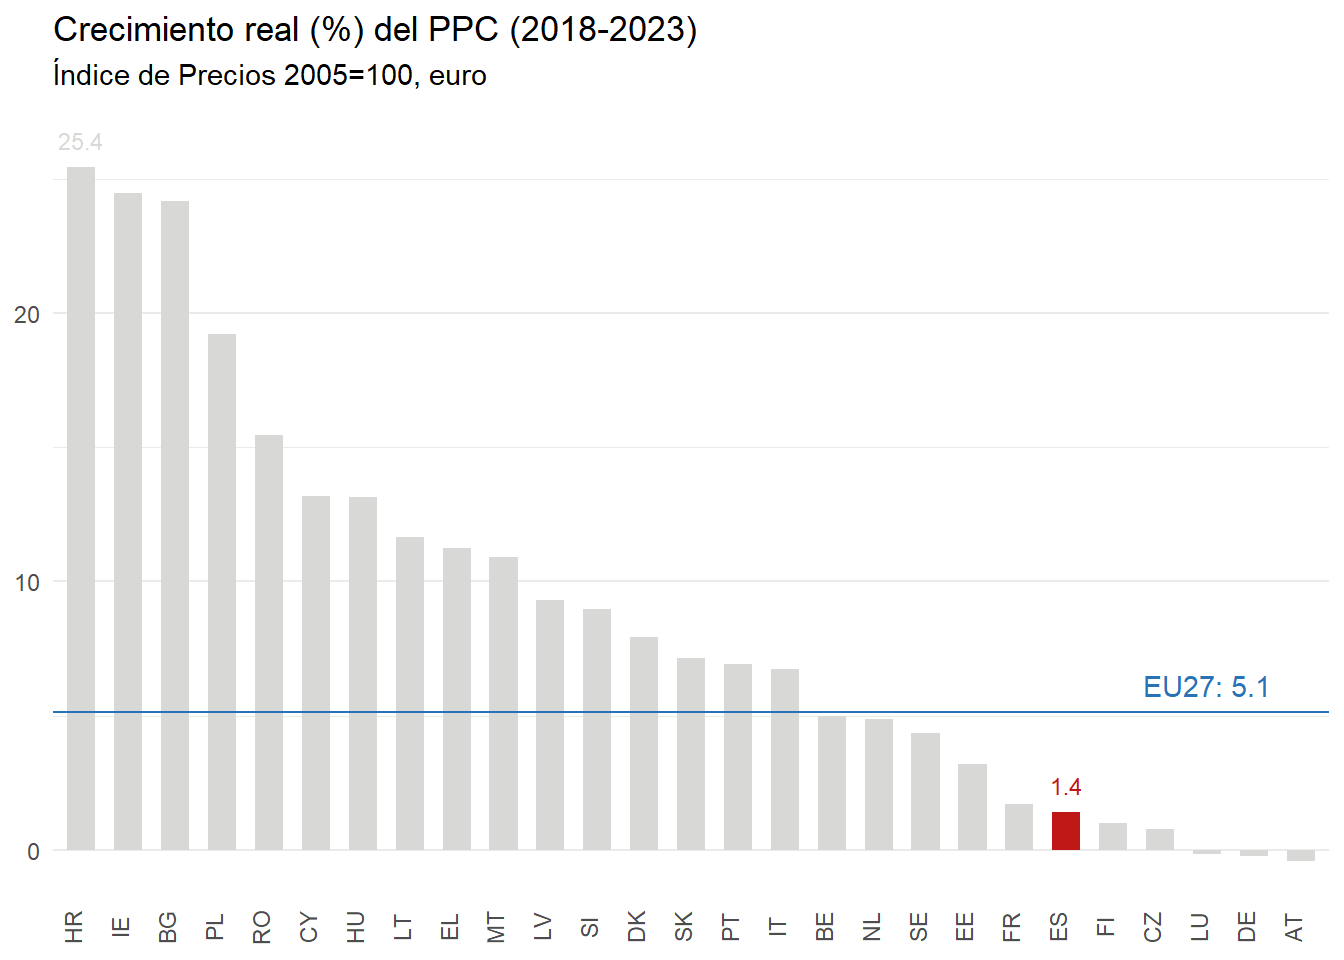
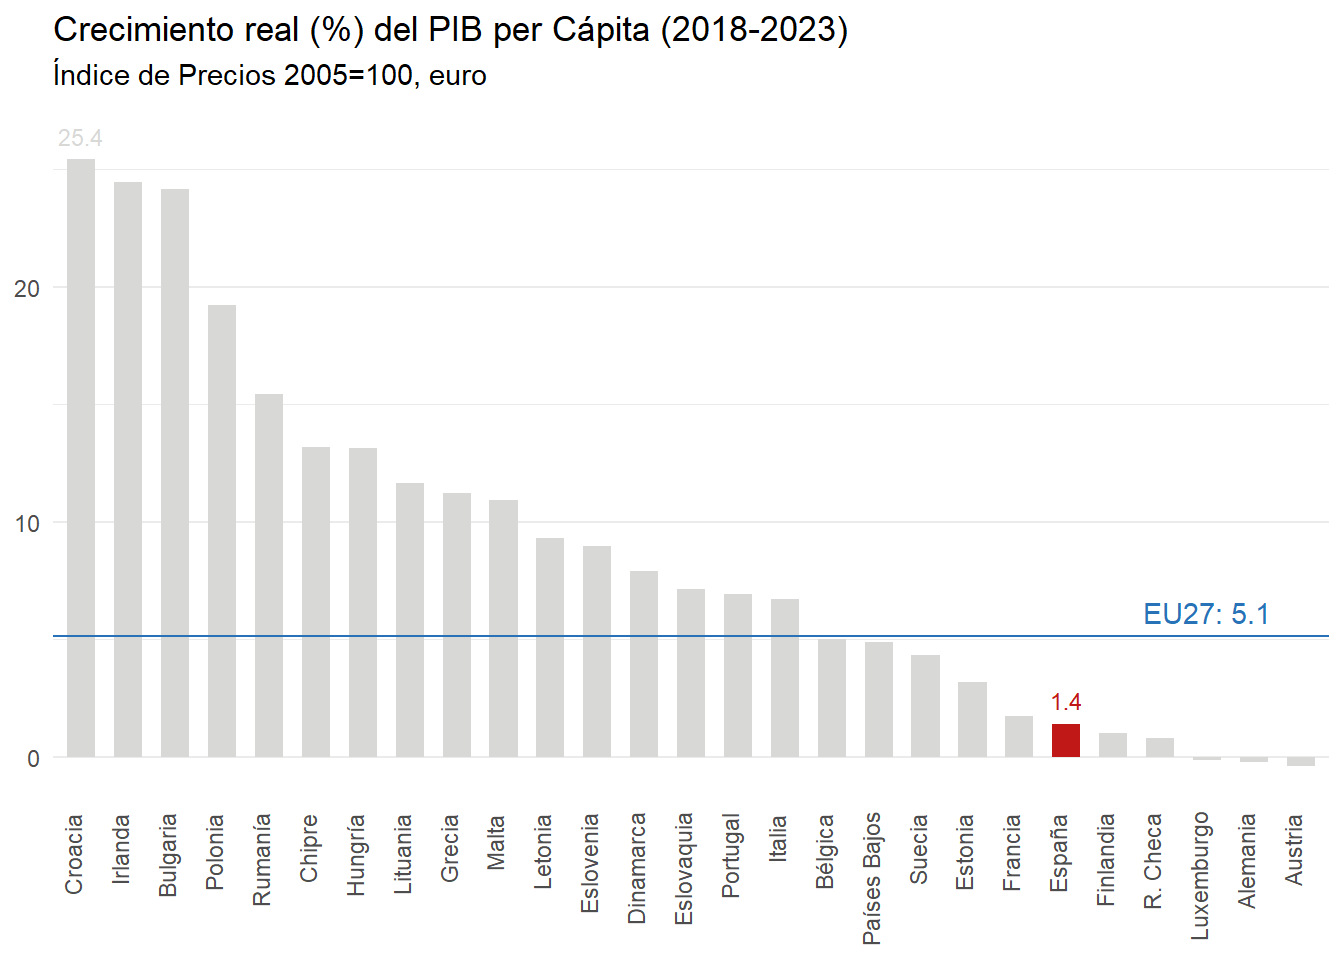
Construcción del Indicador

diff --git a/Trabajo.html b/Trabajo.html
@@ -2,7 +2,7 @@
 <html xmlns="http://www.w3.org/1999/xhtml" lang="en" xml:lang="en"><head>
 
 <meta charset="utf-8">
-<meta name="generator" content="quarto-1.3.450">
+<meta name="generator" content="quarto-1.3.353">
 
 <meta name="viewport" content="width=device-width, initial-scale=1.0, user-scalable=yes">
 
@@ -47,6 +47,8 @@ ul.task-list li input[type="checkbox"] {
 <script src="Trabajo_files/libs/kePrint-0.0.1/kePrint.js"></script>
 <link href="Trabajo_files/libs/lightable-0.0.1/lightable.css" rel="stylesheet">
 
+  <script src="https://polyfill.io/v3/polyfill.min.js?features=es6"></script>
+  <script src="https://cdn.jsdelivr.net/npm/mathjax@3/es5/tex-chtml-full.js" type="text/javascript"></script>
 
 </head>
 
@@ -62,11 +64,15 @@ ul.task-list li input[type="checkbox"] {
   <li><a href="#planteamiento-del-problema" id="toc-planteamiento-del-problema" class="nav-link" data-scroll-target="#planteamiento-del-problema">Planteamiento del problema</a></li>
   <li><a href="#descriptivo" id="toc-descriptivo" class="nav-link" data-scroll-target="#descriptivo">Descriptivo</a>
   <ul class="collapse">
+  <li><a href="#variables" id="toc-variables" class="nav-link" data-scroll-target="#variables">Variables</a>
+  <ul class="collapse">
   <li><a href="#pib-per-capita" id="toc-pib-per-capita" class="nav-link" data-scroll-target="#pib-per-capita">PIB per Capita</a></li>
   <li><a href="#tasa-de-paro" id="toc-tasa-de-paro" class="nav-link" data-scroll-target="#tasa-de-paro">Tasa de Paro</a></li>
   <li><a href="#presión-fiscal" id="toc-presión-fiscal" class="nav-link" data-scroll-target="#presión-fiscal">Presión Fiscal</a></li>
-  <li><a href="#evolución-del-poder-adquisitivo-de-las-familias-ppa" id="toc-evolución-del-poder-adquisitivo-de-las-familias-ppa" class="nav-link" data-scroll-target="#evolución-del-poder-adquisitivo-de-las-familias-ppa">Evolución del poder adquisitivo de las familias (PPA)</a></li>
+  <li><a href="#poder-adquisitivo-de-las-familias" id="toc-poder-adquisitivo-de-las-familias" class="nav-link" data-scroll-target="#poder-adquisitivo-de-las-familias">Poder adquisitivo de las familias</a></li>
   <li><a href="#deuda-pública" id="toc-deuda-pública" class="nav-link" data-scroll-target="#deuda-pública">Deuda pública</a></li>
+  </ul></li>
+  <li><a href="#construcción-del-indicador" id="toc-construcción-del-indicador" class="nav-link" data-scroll-target="#construcción-del-indicador">Construcción del Indicador</a></li>
   </ul></li>
   <li><a href="#resultados" id="toc-resultados" class="nav-link" data-scroll-target="#resultados">Resultados</a></li>
   <li><a href="#conclusiones" id="toc-conclusiones" class="nav-link" data-scroll-target="#conclusiones">Conclusiones</a></li>
@@ -155,8 +161,10 @@ ul.task-list li input[type="checkbox"] {
 </tbody>
 </table>
 <p>No todas las variables serán igual de relevantes a la hora de calcular el indicador. Esto se debe a que en la variable Tasa de Paro se desconoce el número de fijos discontinuos en España, lo que puede llevar a una distorsión en la evolución de la tasa de desempleo entre 2018 y 2023.</p>
-<section id="pib-per-capita" class="level2">
-<h2 class="anchored" data-anchor-id="pib-per-capita">PIB per Capita</h2>
+<section id="variables" class="level2">
+<h2 class="anchored" data-anchor-id="variables">Variables</h2>
+<section id="pib-per-capita" class="level3">
+<h3 class="anchored" data-anchor-id="pib-per-capita">PIB per Capita</h3>
 <div class="cell">
 <div class="cell-output-display">
 <p><img src="Trabajo_files/figure-html/unnamed-chunk-14-1.png" class="img-fluid" width="672"></p>
@@ -168,32 +176,32 @@ ul.task-list li input[type="checkbox"] {
 </div>
 </div>
 </section>
-<section id="tasa-de-paro" class="level2">
-<h2 class="anchored" data-anchor-id="tasa-de-paro">Tasa de Paro</h2>
+<section id="tasa-de-paro" class="level3">
+<h3 class="anchored" data-anchor-id="tasa-de-paro">Tasa de Paro</h3>
 <div class="cell">
 <div class="cell-output-display">
 <p><img src="Trabajo_files/figure-html/unnamed-chunk-19-1.png" class="img-fluid" width="672"></p>
 </div>
 </div>
 </section>
-<section id="presión-fiscal" class="level2">
-<h2 class="anchored" data-anchor-id="presión-fiscal">Presión Fiscal</h2>
+<section id="presión-fiscal" class="level3">
+<h3 class="anchored" data-anchor-id="presión-fiscal">Presión Fiscal</h3>
 <div class="cell">
 <div class="cell-output-display">
 <p><img src="Trabajo_files/figure-html/unnamed-chunk-23-1.png" class="img-fluid" width="672"></p>
 </div>
 </div>
 </section>
-<section id="evolución-del-poder-adquisitivo-de-las-familias-ppa" class="level2">
-<h2 class="anchored" data-anchor-id="evolución-del-poder-adquisitivo-de-las-familias-ppa">Evolución del poder adquisitivo de las familias (PPA)</h2>
+<section id="poder-adquisitivo-de-las-familias" class="level3">
+<h3 class="anchored" data-anchor-id="poder-adquisitivo-de-las-familias">Poder adquisitivo de las familias</h3>
 <div class="cell">
 <div class="cell-output-display">
 <p><img src="Trabajo_files/figure-html/unnamed-chunk-27-1.png" class="img-fluid" width="672"></p>
 </div>
 </div>
 </section>
-<section id="deuda-pública" class="level2">
-<h2 class="anchored" data-anchor-id="deuda-pública">Deuda pública</h2>
+<section id="deuda-pública" class="level3">
+<h3 class="anchored" data-anchor-id="deuda-pública">Deuda pública</h3>
 <div class="cell">
 <div class="cell-output-display">
 <p><img src="Trabajo_files/figure-html/unnamed-chunk-31-1.png" class="img-fluid" width="672"></p>
@@ -201,18 +209,87 @@ ul.task-list li input[type="checkbox"] {
 </div>
 </section>
 </section>
+<section id="construcción-del-indicador" class="level2">
+<h2 class="anchored" data-anchor-id="construcción-del-indicador">Construcción del Indicador</h2>
+<p>Como se ha mencionado inicialmente, no todas las variables tienen el mismo peso en la elaboración del indicador.</p>
+<table class="table">
+<thead>
+<tr class="header">
+<th>Variables</th>
+<th>Peso</th>
+</tr>
+</thead>
+<tbody>
+<tr class="odd">
+<td>Ev. PIB per Capita</td>
+<td>0.2125</td>
+</tr>
+<tr class="even">
+<td>Ev. Tasa de Paro</td>
+<td>0.15</td>
+</tr>
+<tr class="odd">
+<td>Ev. Presión Fiscal sobre el PIB</td>
+<td>0.2125</td>
+</tr>
+<tr class="even">
+<td>Ev. Poder Aquisitivo de las Familias</td>
+<td>0.2125</td>
+</tr>
+<tr class="odd">
+<td>Ev. Deuda Pública sobre el PIB</td>
+<td>0.2125</td>
+</tr>
+</tbody>
+</table>
+<p>Por otra parte, se calcula el caso ideal y el antiideal de desarrollo económico en base a los resultados obtenidos previamente. El ideal está conformado por:</p>
+<ul>
+<li><p>Máxima evolución PIB per Capita.</p></li>
+<li><p>Mayor descenso de la Tasa de Paro.</p></li>
+<li><p>Mayor reducción de la Presión Fiscal sobre el PIB.</p></li>
+<li><p>Mayor evolución del Poder Adquisitivo.</p></li>
+<li><p>Mayor disminución de la Deuda Pública sobre el PIB.</p></li>
+</ul>
+<p>Y el antiideal por:</p>
+<ul>
+<li><p>Menor evolución PIB per Capita.</p></li>
+<li><p>Mayor ascenso de la Tasa de Paro.</p></li>
+<li><p>Mayor incremento de la Presión Fiscal sobre el PIB.</p></li>
+<li><p>Mayor pérdida de Poder Adquisitivo.</p></li>
+<li><p>Mayor aumento de la Deuda Pública sobre el PIB.</p></li>
+</ul>
+<div class="cell">
+<div class="cell-output-display">
+
+<div class="datatables html-widget html-fill-item" id="htmlwidget-e150b5ba47fcc33c6634" style="width:100%;height:auto;"></div>
+<script type="application/json" data-for="htmlwidget-e150b5ba47fcc33c6634">{"x":{"filter":"none","vertical":false,"data":[["Ideal","Antiideal"],[25.42,-0.4],[-44.29,19.88],[-6.06,10.27],[25.49,-8.050000000000001],[-29.41,125.61]],"container":"<table class=\"display\">\n  <thead>\n    <tr>\n      <th> <\/th>\n      <th>Evolución PIB per Capita<\/th>\n      <th>Evolución Tasa de Paro<\/th>\n      <th>Evolución Presión Fiscal<\/th>\n      <th>Evolución Poder Adquisitivo<\/th>\n      <th>Evolución Deuda Pública<\/th>\n    <\/tr>\n  <\/thead>\n<\/table>","options":{"columnDefs":[{"className":"dt-right","targets":[1,2,3,4,5]},{"orderable":false,"targets":0},{"name":" ","targets":0},{"name":"Evolución PIB per Capita","targets":1},{"name":"Evolución Tasa de Paro","targets":2},{"name":"Evolución Presión Fiscal","targets":3},{"name":"Evolución Poder Adquisitivo","targets":4},{"name":"Evolución Deuda Pública","targets":5}],"order":[],"autoWidth":false,"orderClasses":false}},"evals":[],"jsHooks":[]}</script>
+</div>
+</div>
+<p>Posteriormente, se calcula la distancia de cada país al ideal y al antiideal.</p>
+<p><span class="math display">\[
+D^{ideal}_i = \sqrt{\sum_{j=1}^{5}(ideal[j]-pais_i[j])^2}
+\]</span></p>
+<p><span class="math display">\[
+D^{antiideal}_i = \sqrt{\sum_{j=1}^{5}(antiideal[j]-pais_i[j])^2}
+\]</span></p>
+<p>Finalmente, se obtiene el indicador para cada país mediante la siguiente fórmula:</p>
+<p><span class="math display">\[
+I_i = \frac{D_i^{antiideal}}{D_i^{ideal}+D_i^{antiideal}}
+\]</span></p>
+</section>
+</section>
 <section id="resultados" class="level1">
 <h1>Resultados</h1>
 <div class="cell">
 <div class="cell-output-display">
 
-<div class="datatables html-widget html-fill-item" id="htmlwidget-7700bbd973125028980f" style="width:100%;height:auto;"></div>
-<script type="application/json" data-for="htmlwidget-7700bbd973125028980f">{"x":{"filter":"none","vertical":false,"data":[["1","2","3","4","5","6","7","8","9","10","11","12","13","14","15","16","17","18","19","20","21","22","23","24","25","26","27"],["HRVATSKA","IRELAND","POLSKA","BULGARIA","MAGYARORSZÁG","DANMARK","ELLADA","SLOVENIJA","MALTA","NEDERLAND","LATVIJA","PORTUGAL","SVERIGE","BELGIQUE-BELGIË","ROMÂNIA","ITALIA","KYPROS","SLOVENSKO","FRANCE","LIETUVA","ÖSTERREICH","LUXEMBOURG","SUOMI / FINLAND","DEUTSCHLAND","ČESKÁ REPUBLIKA","ESPAÑA","EESTI"],[1,2,4,3,7,13,9,12,10,18,11,15,19,17,5,16,6,14,21,8,27,25,23,26,24,22,20],[9,8,5,2,24,21,1,3,10,6,13,15,26,16,22,4,7,14,12,23,20,18,19,17,25,11,27],[6,1,10,24,3,2,15,16,4,12,9,21,5,7,23,20,27,22,13,25,18,8,17,19,11,26,14],[3,5,4,1,7,17,14,9,13,15,12,8,22,18,2,16,10,11,24,6,25,27,23,26,19,21,20],[7,1,9,10,16,4,6,11,24,8,17,5,2,12,25,13,3,22,21,19,14,23,20,15,26,18,27],[146.4,145.3,131.1,124,114.2,112.1,111.9,109.6,109.1,107,106.5,105.2,105.2,104,99.90000000000001,97.40000000000001,93.90000000000001,93.7,92.90000000000001,92.3,88.8,88.5,87.59999999999999,84.7,82.7,78.90000000000001,49.2],[1,2,3,4,5,6,7,8,9,10,11,12,13,14,15,16,17,18,19,20,21,22,23,24,25,26,27]],"container":"<table class=\"display\">\n  <thead>\n    <tr>\n      <th> <\/th>\n      <th>Países UE-27<\/th>\n      <th>Evolución PIB<\/th>\n      <th>Evolución Empleo<\/th>\n      <th>Presión Fiscal<\/th>\n      <th>Poder adquisitivo<\/th>\n      <th>Deuda Pública<\/th>\n      <th>IDE\nUE=100<\/th>\n      <th>Ranking<\/th>\n    <\/tr>\n  <\/thead>\n<\/table>","options":{"columnDefs":[{"className":"dt-right","targets":[2,3,4,5,6,7,8]},{"orderable":false,"targets":0},{"name":" ","targets":0},{"name":"Países UE-27","targets":1},{"name":"Evolución PIB","targets":2},{"name":"Evolución Empleo","targets":3},{"name":"Presión Fiscal","targets":4},{"name":"Poder adquisitivo","targets":5},{"name":"Deuda Pública","targets":6},{"name":"IDE\nUE=100","targets":7},{"name":"Ranking","targets":8}],"order":[],"autoWidth":false,"orderClasses":false}},"evals":[],"jsHooks":[]}</script>
+<div class="datatables html-widget html-fill-item" id="htmlwidget-8c871eb70155cf678eb2" style="width:100%;height:auto;"></div>
+<script type="application/json" data-for="htmlwidget-8c871eb70155cf678eb2">{"x":{"filter":"none","vertical":false,"data":[["1","2","3","4","5","6","7","8","9","10","11","12","13","14","15","16","17","18","19","20","21","22","23","24","25","26","27"],["Croacia","Irlanda","Polonia","Bulgaria","Hungría","Dinamarca","Grecia","Eslovenia","Malta","Países Bajos","Letonia","Portugal","Suecia","Bélgica","Rumanía","Italia","Chipre","Eslovaquia","Francia","Lituania","Austria","Luxemburgo","Finlandia","Alemania","R. Checa","España","Estonia"],[1,2,4,3,7,13,9,12,10,18,11,15,19,17,5,16,6,14,21,8,27,25,23,26,24,22,20],[9,8,5,2,24,21,1,3,10,6,13,15,26,16,22,4,7,14,12,23,20,18,19,17,25,11,27],[6,1,10,24,3,2,15,16,4,12,9,21,5,7,23,20,27,22,13,25,18,8,17,19,11,26,14],[3,5,4,1,7,17,14,9,13,15,12,8,22,18,2,16,10,11,24,6,25,27,23,26,19,21,20],[7,1,9,10,16,4,6,11,24,8,17,5,2,12,25,13,3,22,21,19,14,23,20,15,26,18,27],[146.4,145.3,131.1,124,114.2,112.1,111.9,109.6,109.1,107,106.5,105.2,105.2,104,99.90000000000001,97.40000000000001,93.90000000000001,93.7,92.90000000000001,92.3,88.8,88.5,87.59999999999999,84.7,82.7,78.90000000000001,49.2],[1,2,3,4,5,6,7,8,9,10,11,12,13,14,15,16,17,18,19,20,21,22,23,24,25,26,27]],"container":"<table class=\"display\">\n  <thead>\n    <tr>\n      <th> <\/th>\n      <th>Países UE-27<\/th>\n      <th>Evolución PIB per Capita<\/th>\n      <th>Evolución Tasa de Paro<\/th>\n      <th>Evolución Presión Fiscal<\/th>\n      <th>Evolución Poder Adquisitivo<\/th>\n      <th>Evolución Deuda Pública<\/th>\n      <th>IDE\nUE=100<\/th>\n      <th>Ranking<\/th>\n    <\/tr>\n  <\/thead>\n<\/table>","options":{"columnDefs":[{"className":"dt-right","targets":[2,3,4,5,6,7,8]},{"orderable":false,"targets":0},{"name":" ","targets":0},{"name":"Países UE-27","targets":1},{"name":"Evolución PIB per Capita","targets":2},{"name":"Evolución Tasa de Paro","targets":3},{"name":"Evolución Presión Fiscal","targets":4},{"name":"Evolución Poder Adquisitivo","targets":5},{"name":"Evolución Deuda Pública","targets":6},{"name":"IDE\nUE=100","targets":7},{"name":"Ranking","targets":8}],"order":[],"autoWidth":false,"orderClasses":false}},"evals":[],"jsHooks":[]}</script>
 </div>
 </div>
 <div class="cell">
 <div class="cell-output-display">
-<p><img src="Trabajo_files/figure-html/unnamed-chunk-36-1.png" class="img-fluid" width="672"></p>
+<p><img src="Trabajo_files/figure-html/unnamed-chunk-39-1.png" class="img-fluid" width="672"></p>
 </div>
 </div>
 </section>

diff --git a/Trabajo.tex b/Trabajo.tex
@@ -168,7 +168,7 @@
 
 \begin{document}
 \maketitle
-\ifdefined\Shaded\renewenvironment{Shaded}{\begin{tcolorbox}[frame hidden, interior hidden, boxrule=0pt, enhanced, borderline west={3pt}{0pt}{shadecolor}, sharp corners, breakable]}{\end{tcolorbox}}\fi
+\ifdefined\Shaded\renewenvironment{Shaded}{\begin{tcolorbox}[borderline west={3pt}{0pt}{shadecolor}, sharp corners, enhanced, interior hidden, frame hidden, boxrule=0pt, breakable]}{\end{tcolorbox}}\fi
 
 \renewcommand*\contentsname{Table of contents}
 {
